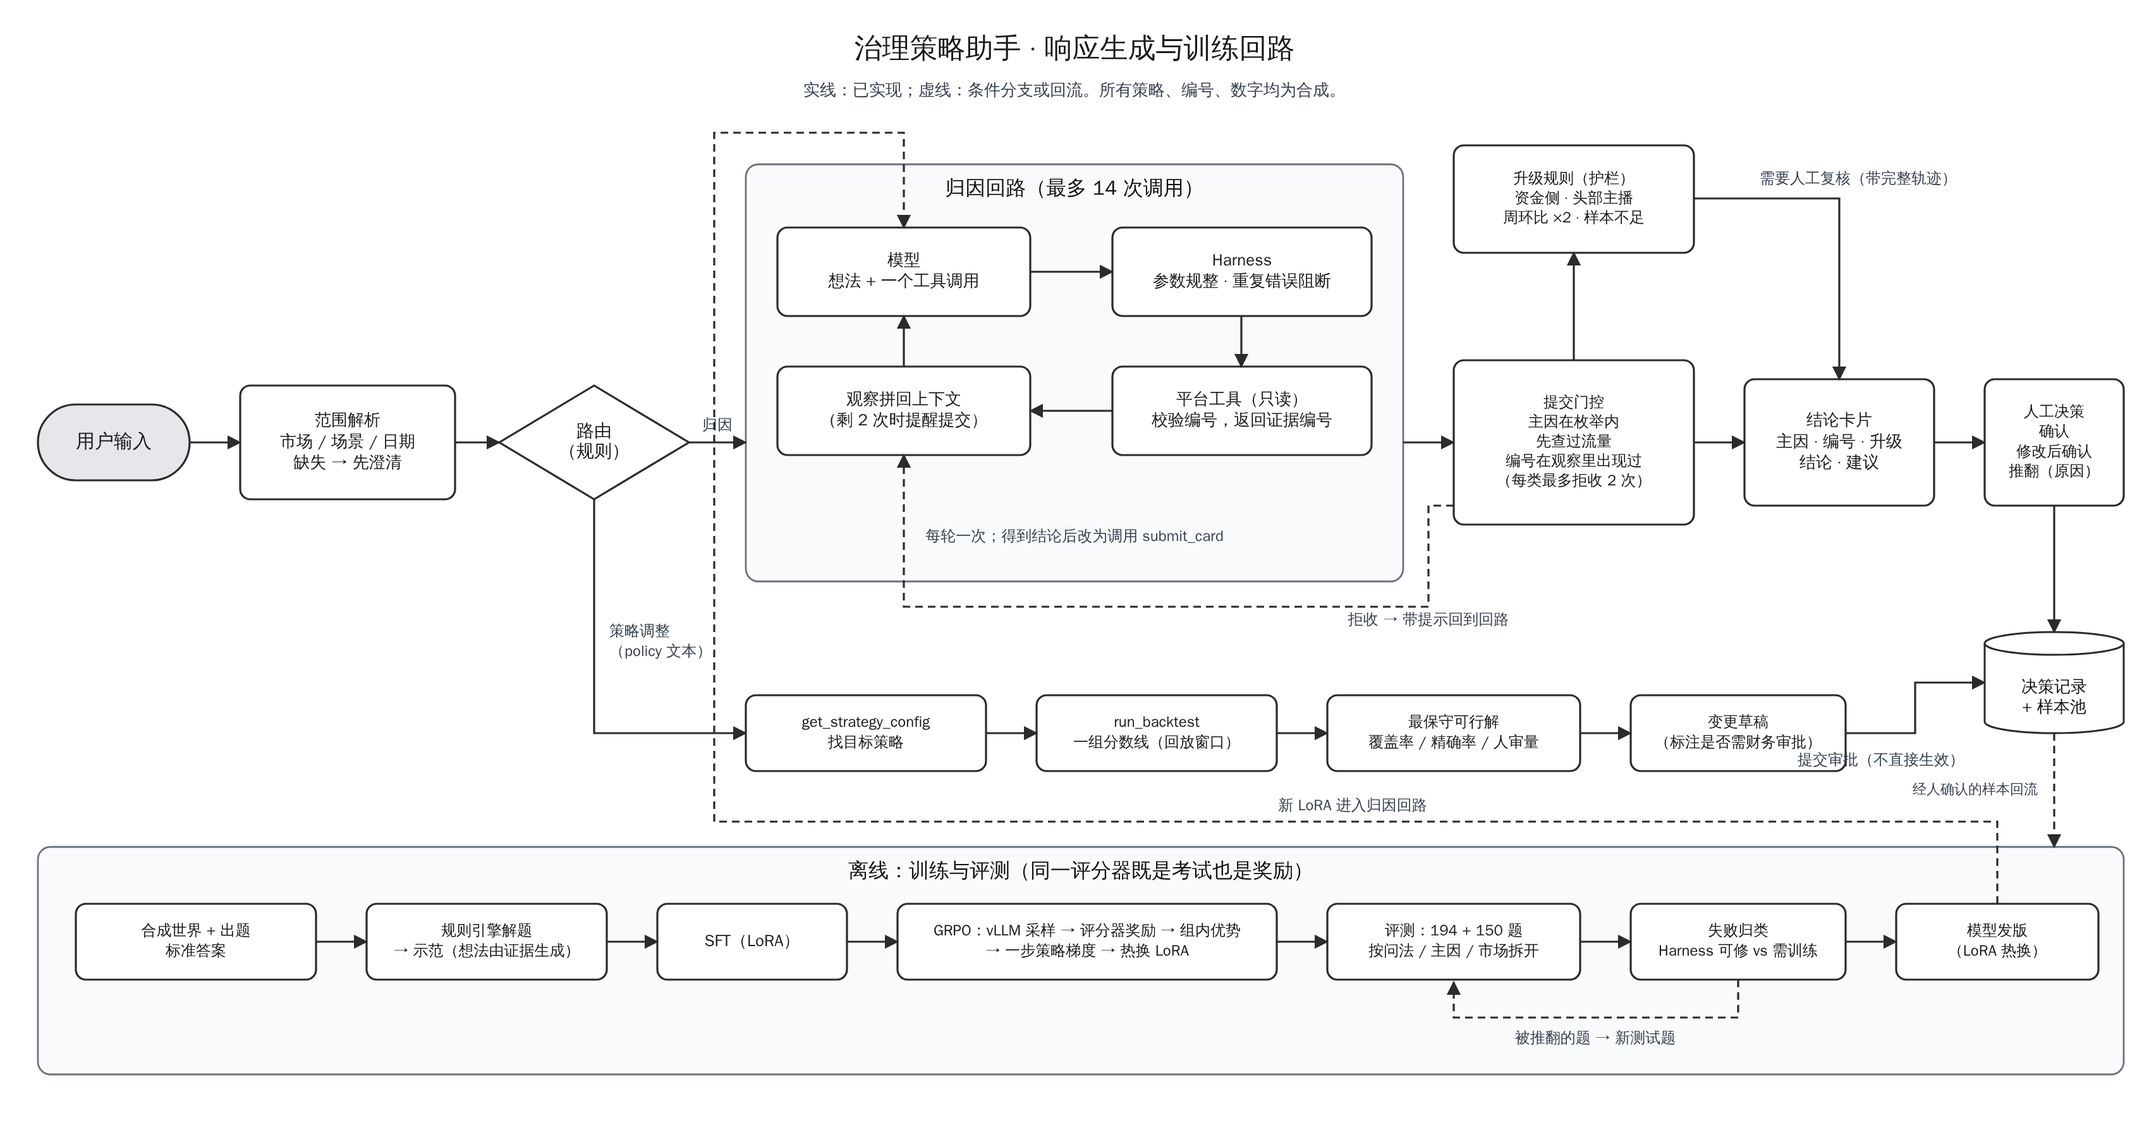
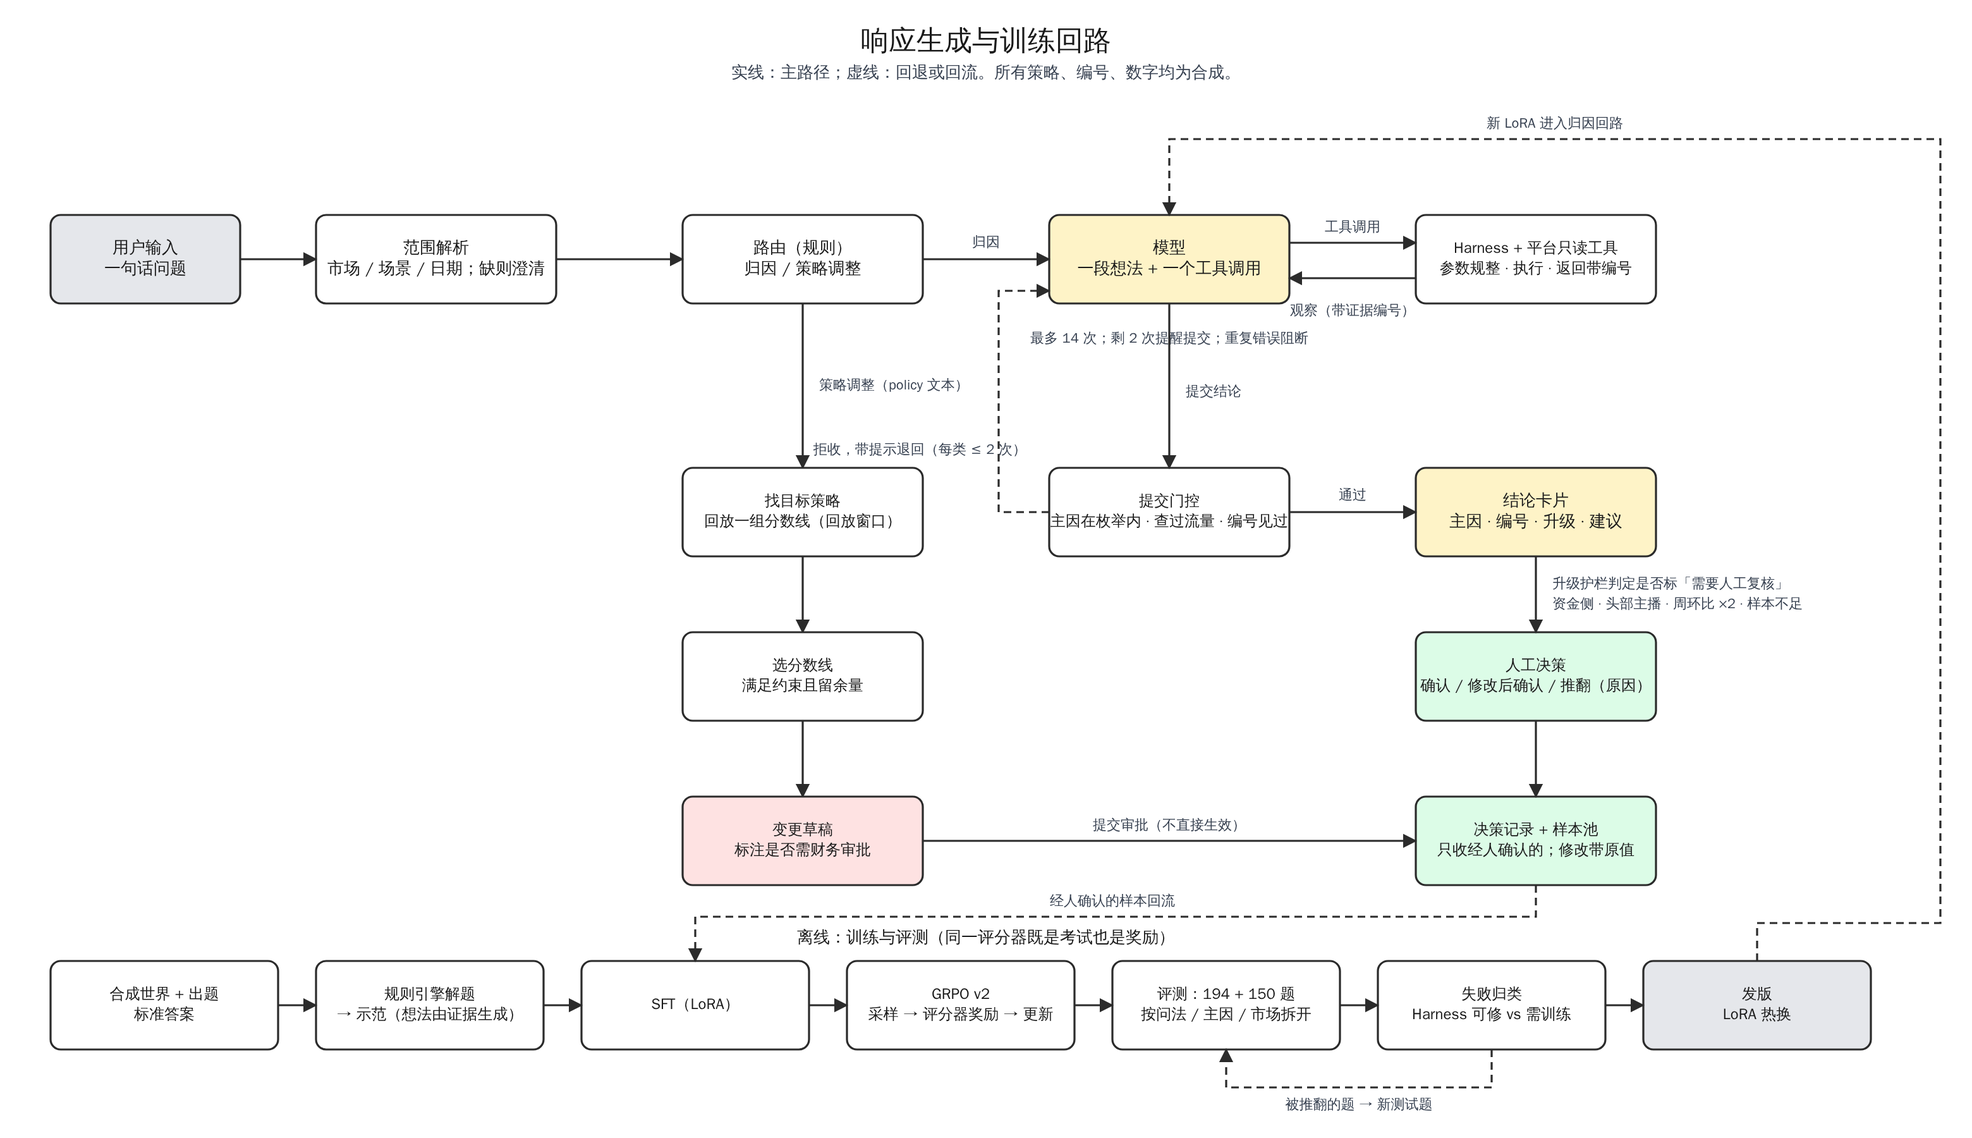
Response-flow diagram redrawn in the state-diagram style; PRD: three options for decision (minimal / recommended / full), copy keys and tracking moved to appendix
Claude-Session: https://claude.ai/code/session_01BtXfCaVdkRnGA8GMhkcuD9

diff --git a/docs/diagrams/build.py b/docs/diagrams/build.py
@@ -129,68 +129,53 @@ def arch():
 
 
 def flow():
-    s = SVG(1700, 890)
-    s.text(850, 40, "治理策略助手 · 响应生成与训练回路", 22, bold=True)
-    s.text(850, 72, "实线：已实现；虚线：条件分支或回流。所有策略、编号、数字均为合成。", 13, color="#374151")
-    s.open_g("translate(0,-120)")
-    # main spine
-    s.box(30, 440, 120, 60, "用户输入", fill="#e5e7eb", r=30, size=15)
-    s.box(190, 425, 170, 90, "范围解析\n市场 / 场景 / 日期\n缺失 → 先澄清", size=13)
-    s.arrow([(150, 470), (190, 470)])
-    s.diamond(470, 470, 150, 90, "路由\n（规则）")
-    s.arrow([(360, 470), (395, 470)])
-    # attribution loop group
-    s.group(590, 250, 520, 330, "归因回路（最多 14 次调用）", fill="#f8fafc")
-    s.box(615, 300, 200, 70, "模型\n想法 + 一个工具调用", size=13)
-    s.box(880, 300, 205, 70, "Harness\n参数规整 · 重复错误阻断", size=13)
-    s.box(880, 410, 205, 70, "平台工具（只读）\n校验编号，返回证据编号", size=13)
-    s.box(615, 410, 200, 70, "观察拼回上下文\n（剩 2 次时提醒提交）", size=13)
-    s.arrow([(815, 335), (880, 335)])
-    s.arrow([(982, 370), (982, 410)])
-    s.arrow([(880, 445), (815, 445)])
-    s.arrow([(715, 410), (715, 370)])
-    s.text(850, 545, "每轮一次；得到结论后改为调用 submit_card", 12, color="#374151")
-    s.arrow([(545, 470), (590, 470)], label="归因", lab_dy=-10)
-    # gate
-    s.box(1150, 405, 190, 130, "提交门控\n主因在枚举内\n先查过流量\n编号在观察里出现过\n（每类最多拒收 2 次）", size=12)
-    s.arrow([(1110, 470), (1150, 470)])
-    s.arrow([(1150, 520), (1130, 520), (1130, 600), (715, 600), (715, 480)], dashed=True, label="拒收 → 带提示回到回路", lab_dy=14)
-    # escalation
-    s.box(1150, 235, 190, 85, "升级规则（护栏）\n资金侧 · 头部主播\n周环比 ×2 · 样本不足", size=12)
-    s.arrow([(1245, 405), (1245, 320)])
-    # card + human
-    s.box(1380, 420, 150, 100, "结论卡片\n主因 · 编号 · 升级\n结论 · 建议", size=13)
-    s.arrow([(1340, 470), (1380, 470)])
-    s.arrow([(1340, 277), (1455, 277), (1455, 420)]); s.text(1470, 262, "需要人工复核（带完整轨迹）", 12, color="#374151")
-    s.box(1570, 420, 110, 100, "人工决策\n确认\n修改后确认\n推翻（原因）", size=12)
-    s.arrow([(1530, 470), (1570, 470)])
-    # downstream storage
-    s.cylinder(1570, 620, 110, 80, "决策记录\n+ 样本池")
-    s.arrow([(1625, 520), (1625, 620)])
-    # P2S branch
-    s.arrow([(470, 515), (470, 700), (590, 700)]); s.text(482, 620, "策略调整", 12, anchor="start", color="#374151"); s.text(482, 636, "（policy 文本）", 12, anchor="start", color="#374151")
-    s.box(590, 670, 190, 60, "get_strategy_config\n找目标策略", size=12)
-    s.box(820, 670, 190, 60, "run_backtest\n一组分数线（回放窗口）", size=12)
-    s.box(1050, 670, 200, 60, "最保守可行解\n覆盖率 / 精确率 / 人审量", size=12)
-    s.box(1290, 670, 170, 60, "变更草稿\n（标注是否需财务审批）", size=12)
-    s.arrow([(780, 700), (820, 700)]); s.arrow([(1010, 700), (1050, 700)]); s.arrow([(1250, 700), (1290, 700)])
-    s.arrow([(1460, 700), (1515, 700), (1515, 660), (1570, 660)]); s.text(1488, 722, "提交审批（不直接生效）", 12, color="#374151")
-    # offline training loop
-    s.group(30, 790, 1650, 180, "离线：训练与评测（同一评分器既是考试也是奖励）", fill="#f9fafb")
-    s.box(60, 835, 190, 60, "合成世界 + 出题\n标准答案", size=12)
-    s.box(290, 835, 190, 60, "规则引擎解题\n→ 示范（想法由证据生成）", size=12)
-    s.box(520, 835, 150, 60, "SFT（LoRA）", size=13)
-    s.box(710, 835, 300, 60, "GRPO：vLLM 采样 → 评分器奖励 → 组内优势\n→ 一步策略梯度 → 热换 LoRA", size=12)
-    s.box(1050, 835, 200, 60, "评测：194 + 150 题\n按问法 / 主因 / 市场拆开", size=12)
-    s.box(1290, 835, 170, 60, "失败归类\nHarness 可修 vs 需训练", size=12)
-    s.box(1500, 835, 160, 60, "模型发版\n（LoRA 热换）", size=12)
-    for x1, x2 in ((250, 290), (480, 520), (670, 710), (1010, 1050), (1250, 1290), (1460, 1500)):
-        s.arrow([(x1, 865), (x2, 865)])
-    s.arrow([(1580, 835), (1580, 770), (565, 770), (565, 225), (715, 225), (715, 300)], dashed=True); s.text(1070, 758, "新 LoRA 进入归因回路", 12, color="#374151")
-    s.arrow([(1625, 700), (1625, 790)], dashed=True)
-    s.text(1612, 745, "经人确认的样本回流", 11, anchor="end", color="#374151")
-    s.arrow([(1375, 895), (1375, 925), (1150, 925), (1150, 897)], dashed=True)
-    s.text(1262, 942, "被推翻的题 → 新测试题", 12, color="#374151")
+    """Response generation + training loop, drawn in the same style as the session state diagram."""
+    s = SVG(1560, 900)
+    s.text(780, 34, "响应生成与训练回路", 22, bold=True)
+    s.text(780, 58, "实线：主路径；虚线：回退或回流。所有策略、编号、数字均为合成。", 13, color="#374151")
+    s.open_g("translate(0,70)")
+    G = "#374151"
+    # row A: input -> parse -> route -> model <-> harness/tools
+    s.box(40, 100, 150, 70, "用户输入\n一句话问题", fill="#e5e7eb", size=13)
+    s.box(250, 100, 190, 70, "范围解析\n市场 / 场景 / 日期；缺则澄清", size=13)
+    s.box(540, 100, 190, 70, "路由（规则）\n归因 / 策略调整", size=13)
+    s.box(830, 100, 190, 70, "模型\n一段想法 + 一个工具调用", fill="#fef3c7", size=13)
+    s.box(1120, 100, 190, 70, "Harness + 平台只读工具\n参数规整 · 执行 · 返回带编号", size=12)
+    s.arrow([(190, 135), (250, 135)]); s.arrow([(440, 135), (540, 135)])
+    s.arrow([(730, 135), (830, 135)]); s.text(780, 122, "归因", 11, color=G)
+    s.arrow([(1020, 122), (1120, 122)]); s.text(1070, 110, "工具调用", 11, color=G)
+    s.arrow([(1120, 150), (1020, 150)]); s.text(1070, 176, "观察（带证据编号）", 11, color=G)
+    s.text(925, 198, "最多 14 次；剩 2 次提醒提交；重复错误阻断", 11, color=G)
+    # row B: gate -> card -> human
+    s.box(830, 300, 190, 70, "提交门控\n主因在枚举内 · 查过流量 · 编号见过", size=12)
+    s.box(1120, 300, 190, 70, "结论卡片\n主因 · 编号 · 升级 · 建议", fill="#fef3c7", size=13)
+    s.arrow([(925, 170), (925, 300)]); s.text(938, 240, "提交结论", 11, anchor="start", color=G)
+    s.arrow([(1020, 335), (1120, 335)]); s.text(1070, 322, "通过", 11, color=G)
+    s.arrow([(830, 335), (790, 335), (790, 160), (830, 160)], dashed=True); s.text(812, 286, "拒收，带提示退回（每类 ≤ 2 次）", 11, anchor="end", color=G)
+    s.box(1120, 430, 190, 70, "人工决策\n确认 / 修改后确认 / 推翻（原因）", fill="#dcfce7", size=12)
+    s.arrow([(1215, 370), (1215, 430)]); s.text(1228, 392, "升级护栏判定是否标「需要人工复核」", 11, anchor="start", color=G); s.text(1228, 408, "资金侧 · 头部主播 · 周环比 ×2 · 样本不足", 11, anchor="start", color=G)
+    s.box(1120, 560, 190, 70, "决策记录 + 样本池\n只收经人确认的；修改带原值", fill="#dcfce7", size=12)
+    s.arrow([(1215, 500), (1215, 560)])
+    # P2S branch under route
+    s.arrow([(635, 170), (635, 300)]); s.text(648, 235, "策略调整（policy 文本）", 11, anchor="start", color=G)
+    s.box(540, 300, 190, 70, "找目标策略\n回放一组分数线（回放窗口）", size=12)
+    s.arrow([(635, 370), (635, 430)])
+    s.box(540, 430, 190, 70, "选分数线\n满足约束且留余量", size=12)
+    s.arrow([(635, 500), (635, 560)])
+    s.box(540, 560, 190, 70, "变更草稿\n标注是否需财务审批", fill="#fee2e2", size=12)
+    s.arrow([(730, 595), (1120, 595)]); s.text(925, 583, "提交审批（不直接生效）", 11, color=G)
+    # offline training row
+    s.text(780, 672, "离线：训练与评测（同一评分器既是考试也是奖励）", 13, bold=True)
+    R = [("合成世界 + 出题\n标准答案", "#fff"), ("规则引擎解题\n→ 示范（想法由证据生成）", "#fff"), ("SFT（LoRA）", "#fff"), ("GRPO v2\n采样 → 评分器奖励 → 更新", "#fff"),
+         ("评测：194 + 150 题\n按问法 / 主因 / 市场拆开", "#fff"), ("失败归类\nHarness 可修 vs 需训练", "#fff"), ("发版\nLoRA 热换", "#e5e7eb")]
+    for i, (t, f) in enumerate(R):
+        x = 40 + i * 210
+        s.box(x, 690, 180, 70, t, fill=f, size=12)
+        if i: s.arrow([(x - 30, 725), (x, 725)])
+    # new model back into the loop (right margin), samples back into SFT, overturned tasks into eval
+    s.arrow([(1390, 690), (1390, 660), (1535, 660), (1535, 40), (925, 40), (925, 100)], dashed=True); s.text(1230, 28, "新 LoRA 进入归因回路", 11, color=G)
+    s.arrow([(1215, 630), (1215, 655), (550, 655), (550, 690)], dashed=True); s.text(880, 643, "经人确认的样本回流", 11, color=G)
+    s.arrow([(1180, 760), (1180, 790), (970, 790), (970, 760)], dashed=True); s.text(1075, 804, "被推翻的题 → 新测试题", 11, color=G)
     s.close_g()
     s.save("response-flow.svg")
 

diff --git a/docs/prd-governance-agent.md b/docs/prd-governance-agent.md
@@ -12,7 +12,7 @@ Oct 19, 2026 · Dekun Sun · 所有策略、市场、公会、数字均为合成
 | 2026-10-17 | Dekun Sun | 公会维度、流程图、数据飞轮；用户改为 policy / 业务治理运营 / 公会治理 / 风险策略 |
 | 2026-10-18 | Dekun Sun | 资金侧处置、公会健康分；原型与模拟数据说明；后训练结果；本精简版 v1.0 |
 | 2026-10-19 | Dekun Sun | 后训练全部完成（补数据、8B、GRPO 三种子、P2S 示范修复）；产品流程图与对话示例（v1.1） |
-| 2026-10-19 | Dekun Sun | 按"摘要 → 背景与问题 → 目标与指标 → 用户与场景 → 范围 → 用户旅程 → 功能需求 → AI 行为与护栏 → 依赖与上线 → 风险与开放问题"重组；第 6 节补交互流程的状态表（v1.2） |
+| 2026-10-19 | Dekun Sun | 按"摘要 → 背景与问题 → 目标与指标 → 用户与场景 → 范围 → 用户旅程 → 功能需求 → AI 行为与护栏 → 依赖与上线 → 风险与开放问题"重组；第 6 节补交互流程的状态表与状态图；第 5 节加三个方案供决策；文案与埋点移到附录（v1.2） |
 
 ## 1. Executive Summary（执行摘要）
 
@@ -87,6 +87,20 @@ Oct 19, 2026 · Dekun Sun · 所有策略、市场、公会、数字均为合成
 
 ## 5. Scope & Non-Goals（范围与非目标）
 
+### 三个方案，供决策
+
+| | 方案 A：最简 | 方案 B：推荐 | 方案 C：最完整 |
+|---|---|---|---|
+| 做什么 | 规则引擎按 playbook 自动归因，输出带证据编号的结论卡片；人确认 / 推翻；只读 | A + 开源小模型（4B）按规则引擎示范做监督微调，接自然语言提问；评估集与评分器；巡检推送；policy → 变更草稿（审批） | B + 用确认后的结论持续训练自有模型（RL 放最后）；多团队 playbook 平台化；内部模型路由；配置化巡检 |
+| 不做什么 | 不接模型，问法固定（从冷启动问题里选）；不做巡检和草稿 | 不做自有模型的持续训练；不做多团队 | — |
+| 能拿到什么 | 归因时间从 30–60 分钟降到分钟级，结论可追溯；原型已证明规则引擎在标准答案题上全对、幻觉 0 | 自然语言提问、新问法可泛化；合成测试集上归因 94%–96%、策略调整 91%–98%；每次确认都变成训练样本 | 能力随使用持续提升；策略团队自己写 playbook |
+| 依赖 | 平台只读接口 | A 的依赖 + 一张 GPU（一次训练约 1 小时）+ 试点运营团队做并行对照 + 外部验证集标注 | B 的依赖 + 算法团队承接训练 + 审批流对接 |
+| 周期（估） | 2–4 周接入试点 | 一个季度到封闭 Alpha | 两个季度以上 |
+| 主要风险 | 问法和场景一多就要不停写规则 | 分数只对合成数据成立，真实准确率要靠外部验证；用户信任 | 口径对齐、跨团队分工、训练样本偏差 |
+| 适合 | 想先验证"有没有人用"，预算和人力最少 | 想把这件事做成产品并沉淀数据 | 已经决定把治理平台 Agent 化作为年度目标 |
+
+本文按方案 B 写；A 是 B 的第一步（规则引擎已在原型里跑通），C 是 B 的延伸。
+
 ### 本期做什么
 
 | 优先级 | 事项 | 为什么是这一期 |
@@ -128,7 +142,7 @@ Oct 19, 2026 · Dekun Sun · 所有策略、市场、公会、数字均为合成
 
 | 环节 | 体验 | 示意 |
 |---|---|---|
-| 入口与开场 | 平台右上角常驻入口。打开后显示：本周巡检发现（若有，按严重度排序，最多 3 条）+ 按当前页面推荐的 3 个冷启动问题（例如在策略详情页：这条策略最近健康吗 / 命中为什么变了 / 和哪些策略重叠） | ![](images/flow-0-overview.png) |
+| 入口与开场 | 平台右上角常驻入口。打开后显示：本周巡检发现（若有，按严重度排序，最多 3 条）+ 按当前页面推荐的 3 个冷启动问题（例如在策略详情页：这条策略最近健康吗 / 命中为什么变了 / 和哪些策略重叠）。开场语："我是治理策略助手。可以问我某个市场、场景的处罚 / 命中 / 误判变化的原因，或某条策略最近是否健康。我只读平台数据，结论都带证据编号，修改策略需要你确认。" | ![](images/flow-0-overview.png) |
 | 提问与范围识别 | 支持中文自然语言；助手从问题里解析市场、场景、日期，解析不出的字段先确认再查。输入上限 200 字 | |
 | 调用过程可见 | 每一步工具调用以折叠行展示：调用了什么、看到了什么（带证据编号）。用户可随时展开 | ![](images/flow-1-attribution.png) |
 | 人工修改 | 卡片上的数值（分数线、窗口）和主因可直接改；修改会被记录为"修改后确认"并带原值 | ![](images/flow-2-human-edit.png) |
@@ -179,33 +193,6 @@ Oct 19, 2026 · Dekun Sun · 所有策略、市场、公会、数字均为合成
 | F10 | 反馈 | 每张卡片 | 有用 / 没用（原因） | 记录 | 质量样本 | "没用"必须选原因 |
 
 主因枚举：模型漂移、召回下降（规避）、流量驱动、policy / 策略变更、新策略上线、公会集中违规、公会真实违规、公会不合理扣分、没有异常、数据不足、需要澄清。
-
-### 文案（示例键）
-
-| 键 | 场景 | 中文文案 |
-|---|---|---|
-| ga_card_need_review | 命中升级规则 | 需要人工复核：{reason} |
-| ga_card_no_anomaly | 没有异常 | 属正常波动，未发现异常（{metric} {date}={v}，前 7 天中位数 {median}） |
-| ga_card_insufficient | 数据不足 | 样本不足以下结论，建议扩大窗口或人工复核 |
-| ga_gate_traffic | 未查流量就提交 | 提交前请先确认流量变化（sessions），排除流量驱动 |
-| ga_gate_ids | 编号不存在 | 编号 {id} 没有在本轮数据里出现过；已出现的编号：{seen} |
-| ga_budget_left | 剩 2 次调用 | 还剩 {n} 次调用，请尽快提交结论 |
-| ga_feedback_bad_reason | 点"没用"后 | 哪里不对：答非所问 / 主因错 / 漏证据 / 太慢 / 格式 / 其他 |
-
-开场语："我是治理策略助手。可以问我某个市场、场景的处罚 / 命中 / 误判变化的原因，或某条策略最近是否健康。我只读平台数据，结论都带证据编号，修改策略需要你确认。"
-
-### 埋点
-
-| 事件 | 字段 | 用途 |
-|---|---|---|
-| session_open | 入口页面、是否有巡检发现 | 渗透与入口分析 |
-| query_submit | 问题文本（脱敏）、解析出的市场 / 场景 / 日期、是否触发澄清 | 范围识别准确率 |
-| tool_call | 工具名、参数、耗时、是否报错、是否被规整 | harness 失败归类 |
-| card_render | 主因、编号数、是否升级、调用次数、总耗时 | 质量与成本 |
-| card_edit | 改了哪个字段、原值、新值 | 修改类样本 |
-| card_decision | 确认 / 修改后确认 / 推翻（原因） | 北极星、采纳率、训练样本 |
-| feedback | 有用 / 没用（原因） | 质量 |
-| escalation | 触发规则、接手人 | 升级正确率 |
 
 ## 8. AI Behavior & Guardrails（AI 行为与护栏）
 
@@ -281,7 +268,7 @@ Oct 19, 2026 · Dekun Sun · 所有策略、市场、公会、数字均为合成
 - [ ] 与策略产品、模型运营在助手训练和 playbook 编写上的分工？
 - [ ] 外部验证集由哪个团队标注、何时能有？
 
-### 附录：原型结果
+### 附录 A：原型结果
 
 原型在合成世界上每一步只改一件事（归因 = 194 道题、8 项标准全对才算过；策略调整 = 150 道题；全部为合成数据）：
 
@@ -299,3 +286,28 @@ Oct 19, 2026 · Dekun Sun · 所有策略、市场、公会、数字均为合成
 
 - 失败归类（harness 可修 vs 需要训练）与后训练各阶段结果：[../reports/posttrain_report.md](../reports/posttrain_report.md)
 - 策略链路与金融风控对照、参考的公开岗位、与通用型助手的对照：[docs/PRD.md](PRD.md)
+
+### 附录 B：文案（示例键）
+
+| 键 | 场景 | 中文文案 |
+|---|---|---|
+| ga_card_need_review | 命中升级规则 | 需要人工复核：{reason} |
+| ga_card_no_anomaly | 没有异常 | 属正常波动，未发现异常（{metric} {date}={v}，前 7 天中位数 {median}） |
+| ga_card_insufficient | 数据不足 | 样本不足以下结论，建议扩大窗口或人工复核 |
+| ga_gate_traffic | 未查流量就提交 | 提交前请先确认流量变化（sessions），排除流量驱动 |
+| ga_gate_ids | 编号不存在 | 编号 {id} 没有在本轮数据里出现过；已出现的编号：{seen} |
+| ga_budget_left | 剩 2 次调用 | 还剩 {n} 次调用，请尽快提交结论 |
+| ga_feedback_bad_reason | 点"没用"后 | 哪里不对：答非所问 / 主因错 / 漏证据 / 太慢 / 格式 / 其他 |
+
+### 附录 C：埋点
+
+| 事件 | 字段 | 用途 |
+|---|---|---|
+| session_open | 入口页面、是否有巡检发现 | 渗透与入口分析 |
+| query_submit | 问题文本（脱敏）、解析出的市场 / 场景 / 日期、是否触发澄清 | 范围识别准确率 |
+| tool_call | 工具名、参数、耗时、是否报错、是否被规整 | harness 失败归类 |
+| card_render | 主因、编号数、是否升级、调用次数、总耗时 | 质量与成本 |
+| card_edit | 改了哪个字段、原值、新值 | 修改类样本 |
+| card_decision | 确认 / 修改后确认 / 推翻（原因） | 北极星、采纳率、训练样本 |
+| feedback | 有用 / 没用（原因） | 质量 |
+| escalation | 触发规则、接手人 | 升级正确率 |
